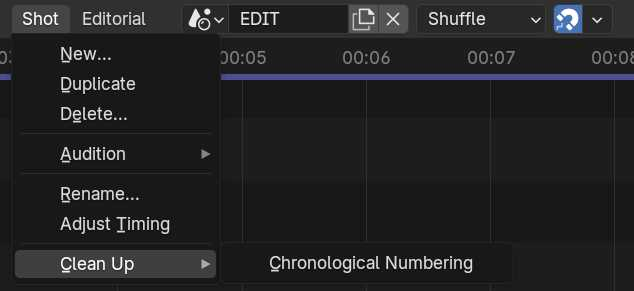
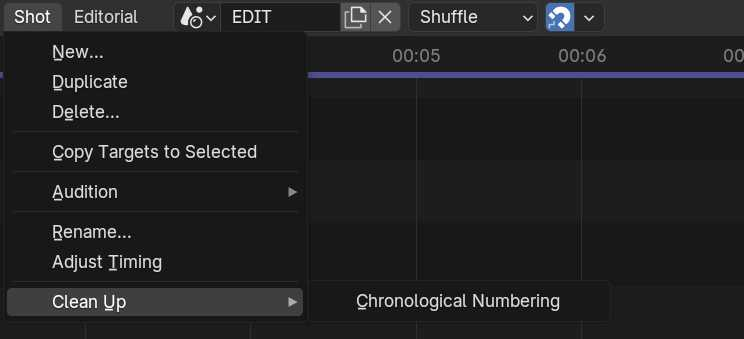
Feature: Copy Targets to Selected (#69)
* Add Copy Targets Operator

* Update Docs

* Support Audition Strips

* Force Sync Update after Copying Targets

---------

diff --git a/spa_sequencer/shot/ops.py b/spa_sequencer/shot/ops.py
@@ -22,6 +22,7 @@ from ..sync.core import (
     get_sync_master_strip,
     get_sync_settings,
     remap_frame_value,
+    sync_system_update,
 )
 from ..utils import get_edit_scene, register_classes, unregister_classes
 
@@ -1014,6 +1015,55 @@ class SEQUENCER_OT_set_shot_audition(bpy.types.Operator):
         return {"FINISHED"}
 
 
+class SEQUENCER_OT_shot_copy_targets_to_selected(bpy.types.Operator):
+    bl_idname = "sequencer.shot_copy_targets_to_selected"
+    bl_label = "Copy Targets to Selected"
+    bl_description = (
+        "Copy the Scene and Camera from the active strip to all selected shots"
+    )
+    bl_options = {"REGISTER", "UNDO"}
+
+    @classmethod
+    def poll(cls, context: bpy.types.Context):
+        sed = get_edit_scene(context).sequence_editor
+        if not sed:
+            return False
+        active = sed.active_strip
+        if not (isinstance(active, bpy.types.SceneStrip) or get_audition_strip(active)):
+            cls.poll_message_set("Active strip must be a Scene Strip or Audition Strip")
+            return False
+        if not any(
+            s
+            for s in sed.strips
+            if s.select
+            and s != active
+            and (isinstance(s, bpy.types.SceneStrip) or get_audition_strip(s))
+        ):
+            cls.poll_message_set("No other selected Shots to copy to")
+            return False
+        return True
+
+    def execute(self, context: bpy.types.Context):
+        sed = get_edit_scene(context).sequence_editor
+        active = sed.active_strip
+        targets = [
+            s
+            for s in sed.strips
+            if s.select
+            and s != active
+            and (isinstance(s, bpy.types.SceneStrip) or get_audition_strip(s))
+        ]
+        for strip in targets:
+            # Act on Active Strip if Audition
+            if get_audition_strip(strip):
+                strip = strip.strips.get(strip.audition.active)
+            strip.scene = active.scene
+            strip.scene_camera = active.scene_camera
+        sync_system_update(context, force=True)
+        self.report({"INFO"}, f"Copied targets to {len(targets)} strip(s).")
+        return {"FINISHED"}
+
+
 classes = (
     SEQUENCER_OT_shot_new,
     SEQUENCER_OT_shot_duplicate,
@@ -1024,6 +1074,7 @@ classes = (
     SEQUENCER_OT_new_shot_audition,
     SEQUENCER_OT_shot_audition_set_menu,
     SEQUENCER_OT_set_shot_audition,
+    SEQUENCER_OT_shot_copy_targets_to_selected,
 )
 
 

diff --git a/spa_sequencer/shot/ui.py b/spa_sequencer/shot/ui.py
@@ -31,6 +31,8 @@ class SEQUENCER_MT_shot(bpy.types.Menu):
         layout.operator("sequencer.shot_duplicate")
         layout.operator("sequencer.shot_delete", text="Delete...")
         layout.separator()
+        layout.operator("sequencer.shot_copy_targets_to_selected")
+        layout.separator()
         layout.menu("SEQUENCER_MT_shot_audition")
         layout.separator()
         layout.operator("sequencer.shot_rename", text="Rename...")

diff --git a/docs/shot.md b/docs/shot.md
@@ -34,6 +34,10 @@ Each shot is associated with a scene. To delete a shot normally simply select Sh
 
 **Warning:** The **Delete Scenes** option will remove associated Scene data from the outliner.
 
+## Copy Targets to Selected
+Copy the Scene Camera and Target Scene from the Active Strip to the selected strips.
+
+
 ### Adjust Shot’s Timing
 Adjust timing will change the length of a strip in the sequencer and in the Dope Sheet. This will also "push" strips on the same channel to accommodate timing changes.
 
